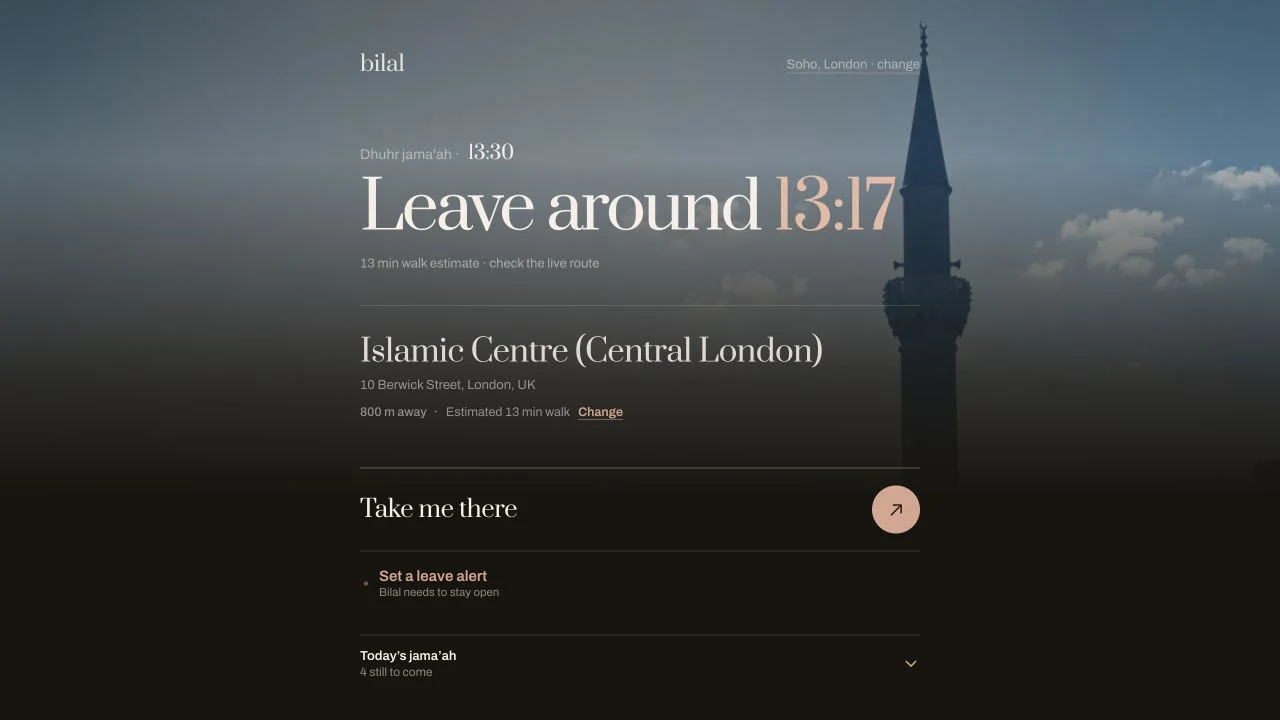
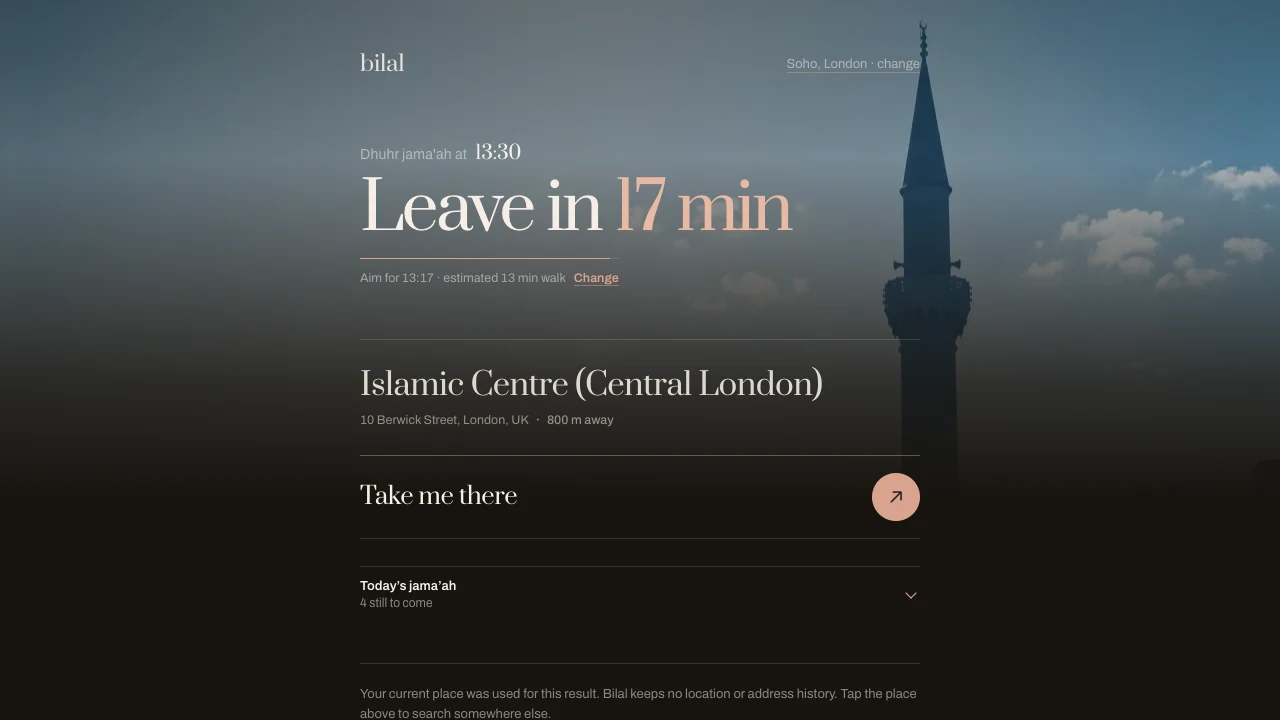
Make Near countdown feel alive

diff --git a/near.html b/near.html
@@ -94,11 +94,13 @@
   --out:cubic-bezier(.16,1,.3,1);
 }
 *{box-sizing:border-box;margin:0;padding:0}
+[hidden]{display:none!important}
 html,body{color:var(--cream);font-family:var(--text);
   font-variant-numeric:tabular-nums;-webkit-font-smoothing:antialiased;min-height:100%;
   -webkit-tap-highlight-color:transparent;text-rendering:optimizeLegibility}
 html{background:var(--chrome);scroll-behavior:smooth;min-height:-webkit-fill-available}
-body{position:relative;overflow-x:hidden;overscroll-behavior-y:none;
+body{position:relative;overflow-x:hidden;overscroll-behavior-y:auto;touch-action:pan-y;
+  -webkit-overflow-scrolling:touch;
   background:linear-gradient(to bottom,var(--chrome) 0,var(--chrome) 66svh,
     var(--deep) 66svh,var(--deep) 100%);
   min-height:100vh;min-height:-webkit-fill-available}
@@ -230,10 +232,11 @@ body.is-loading #app{opacity:0;visibility:hidden}
 .destination{padding-top:clamp(22px,4vh,34px);margin-top:clamp(23px,4.5vh,38px);border-top:1px solid var(--hair)}
 .mname{font-family:var(--display);font-size:clamp(23px,6.7vw,31px);line-height:1.08;
   letter-spacing:-.02em;text-wrap:balance;font-kerning:normal;max-width:22ch;color:rgba(246,239,231,.88)}
-.maddr{font-size:13px;color:var(--veil);margin-top:7px;line-height:1.45}
-.destination-meta{display:flex;align-items:baseline;flex-wrap:wrap;gap:0 7px;margin-top:6px}
-.mdist{font-size:12.5px;color:var(--veil);font-weight:500;
-  display:flex;align-items:baseline;flex-wrap:wrap;gap:7px}
+.destination-meta{display:flex;align-items:baseline;flex-wrap:wrap;gap:0 7px;margin-top:8px;
+  color:var(--veil);font-size:12.5px;line-height:1.45}
+.maddr{color:inherit}
+.mdist{color:inherit;font-weight:500}
+.mdist:before{content:'\00b7';margin-right:7px;color:var(--clay)}
 
 .jamaah-line{display:flex;align-items:baseline;gap:8px;color:var(--veil)}
 .plabel{font-size:14px;letter-spacing:.01em}
@@ -242,13 +245,18 @@ body.is-loading #app{opacity:0;visibility:hidden}
 .leave{margin-top:13px;color:var(--cream)}
 .leave span{display:block;font-family:var(--display);font-size:clamp(48px,13.8vw,66px);
   line-height:1.02;letter-spacing:-.045em;text-wrap:balance}
-.leave b{color:var(--clay-lift);font-weight:400}
+.leave b{color:var(--clay-lift);font-weight:400;white-space:nowrap}
+.leave .countdown-minutes{display:inline;font:inherit;letter-spacing:inherit}
 .leave small{display:block;margin-top:11px;color:var(--veil);font-family:var(--text);
   font-size:13px;line-height:1.45;letter-spacing:0}
 .leave.none span,.leave.late span{font-size:clamp(31px,9vw,43px);line-height:1.12}
-.journey-meta{display:flex;align-items:baseline;gap:8px;
+.second-sweep{width:min(68%,260px);height:1px;margin-top:15px;overflow:hidden;
+  background:rgba(246,239,231,.13);opacity:0;transition:opacity var(--swift) ease}
+.second-sweep.on{opacity:1}
+.second-sweep span{display:block;width:100%;height:100%;background:var(--clay);
+  transform:scaleX(1);transform-origin:left center;transition:transform 1s linear}
+.journey-meta{display:flex;align-items:baseline;flex-wrap:wrap;gap:0 8px;margin-top:7px;
   color:var(--veil);font-size:12.5px;line-height:1.45}
-.journey-meta:before{content:'·';color:var(--clay)}
 .text-button{appearance:none;border:0;background:none;color:var(--clay);font:inherit;
   display:inline-flex;align-items:center;min-height:44px;margin:-10px 0;font-weight:600;padding:10px 0;
   cursor:pointer;text-decoration:underline;
@@ -534,7 +542,6 @@ body.guide-open{overflow:hidden}
   .brandrow{margin-bottom:clamp(21px,4.4svh,32px)}
   .mname{max-width:92%;font-size:clamp(23px,6.3vw,27px);line-height:1.1;
     letter-spacing:-.025em;text-wrap:pretty}
-  .maddr{max-width:88%;font-size:13px;margin-top:7px}
   .ptime{font-size:19px}
   .leave{margin-top:13px}
   .leave span{font-size:clamp(48px,14.2vw,62px)}
@@ -593,6 +600,7 @@ body.guide-open{overflow:hidden}
 
 @media(prefers-reduced-motion:reduce){
   html{scroll-behavior:auto}
+  .second-sweep{display:none}
   *,*:before,*:after{animation-duration:.01ms!important;animation-iteration-count:1!important;
     transition-duration:.01ms!important;scroll-behavior:auto!important}
 }
@@ -650,15 +658,9 @@ body.guide-open{overflow:hidden}
       <span class="ptime" id="ptime">--:--</span>
     </div>
     <div class="leave" id="leave" role="status" aria-live="polite"></div>
+    <div class="second-sweep" id="secondSweep" aria-hidden="true"><span></span></div>
     <div class="pcount sr-only" id="pcount"></div>
-    <div class="destination">
-      <div class="mname" id="mname"></div>
-      <div class="maddr" id="maddr"></div>
-      <div class="destination-meta">
-        <div class="mdist"><span id="mdist"></span></div>
-        <div class="journey-meta" id="journeyMeta"><span id="journeySource"></span><button class="text-button" id="journeyEdit" type="button" aria-expanded="false" aria-controls="journeyForm">Change</button></div>
-      </div>
-    </div>
+    <div class="journey-meta" id="journeyMeta"><span id="journeySource"></span><button class="text-button" id="journeyEdit" type="button" aria-expanded="false" aria-controls="journeyForm">Change</button></div>
     <form class="journey-form" id="journeyForm" aria-hidden="true" inert>
       <div class="journey-inner">
         <label for="journeyMinutes">How many minutes from here?</label>
@@ -669,12 +671,19 @@ body.guide-open{overflow:hidden}
         <div class="journey-hint">Walk, drive, transit, cycle or a lift. Bilal only needs the minutes.</div>
       </div>
     </form>
+    <div class="destination">
+      <div class="mname" id="mname"></div>
+      <div class="destination-meta">
+        <span class="maddr" id="maddr"></span>
+        <span class="mdist" id="mdist"></span>
+      </div>
+    </div>
     <div class="actions">
       <a class="route route-primary" id="route" target="_blank" rel="noopener external">
         <span class="route-copy"><strong class="route-label">Take me there</strong></span>
         <span class="route-arrow" aria-hidden="true">↗</span>
       </a>
-      <button class="btn ghost" id="arm" aria-pressed="false"><span class="armdot" aria-hidden="true"></span><span class="arm-copy"><span id="armText">Alert me when to leave</span><small>Bilal needs to stay open</small></span></button>
+      <button class="btn ghost" id="arm" aria-pressed="false" hidden><span class="armdot" aria-hidden="true"></span><span class="arm-copy"><span id="armText">Alert me when to leave</span><small>Bilal needs to stay open</small></span></button>
     </div>
     <section class="day" id="daySection">
       <button class="day-toggle" id="dayToggle" type="button" aria-expanded="false" aria-controls="dayDrawer">
@@ -786,6 +795,8 @@ body.guide-open{overflow:hidden}
   var MOTION = {swift:160, settle:420, grand:760, out:'cubic-bezier(.16,1,.3,1)'};
   var SPLASH = {minimum:900, maximum:1450};
   var PULL = {threshold:72, maximum:108, resistance:.44, reloadDelay:240};
+  var NATIVE_IOS=/iP(?:hone|ad|od)/.test(navigator.platform||'') ||
+    ((navigator.platform||'')==='MacIntel' && navigator.maxTouchPoints>1);
 
   /* Time override for previewing, the same ?at=HH:MM the display takes. Every
      clock read below goes through nowMs() so the whole page moves together:
@@ -1086,6 +1097,17 @@ body.guide-open{overflow:hidden}
     return h+'h '+pad(m%60)+'m';
   }
 
+  /* Seconds carry urgency, but stay optically subordinate to the useful unit:
+     the minutes remaining. VoiceOver receives a calm minute-level update. */
+  function leaveCountdown(ms){
+    var total=Math.max(0,Math.floor(ms/1000));
+    return {
+      minutes:Math.max(1,Math.ceil(total/60)),
+      seconds:total%60,
+      sweep:total>0 ? (((total-1)%60)+1)/60 : 0
+    };
+  }
+
   function dayName(date){
     var today=iso(nowDate());
     var tomorrow=iso(new Date(nowMs()+86400000));
@@ -1162,7 +1184,20 @@ body.guide-open{overflow:hidden}
   function setLeave(className,html){
     var el=$('leave');
     el.className=className;
+    $('secondSweep').className='second-sweep';
     if(el.innerHTML!==html) el.innerHTML=html;
+  }
+
+  function setCountdown(ms){
+    var el=$('leave'), remaining=leaveCountdown(ms);
+    el.className='leave';
+    if(!el.querySelector('.countdown-minutes')){
+      el.innerHTML='<span aria-hidden="true">Leave in <b><strong class="countdown-minutes"></strong> min</b></span><span class="sr-only countdown-spoken"></span>';
+    }
+    el.querySelector('.countdown-minutes').textContent=remaining.minutes;
+    $('secondSweep').className='second-sweep on';
+    $('secondSweep').firstElementChild.style.transform='scaleX('+remaining.sweep+')';
+    movingText(el.querySelector('.countdown-spoken'),'Leave in '+Math.max(1,Math.ceil(ms/60000))+' minutes');
   }
 
   function paint(){
@@ -1179,7 +1214,7 @@ body.guide-open{overflow:hidden}
     sky(CORE.currentAtmosphere(ROWS,nowDate()));
     $('othersHint').textContent='Nearby choices and search';
     $('plabel').textContent = LABEL[nx.prayer]+' jama\'ah'+
-      (iso(nx.at)!==iso(nowDate()) ? ' tomorrow' : '')+' ·';
+      (iso(nx.at)!==iso(nowDate()) ? ' tomorrow' : '')+' at';
     $('ptime').textContent  = hhmm(nx.at);
     movingText($('pcount'), 'Jama\'ah in '+human(nx.at-nowMs()));
 
@@ -1191,8 +1226,9 @@ body.guide-open{overflow:hidden}
         if(iso(leaveAt)!==iso(nowDate())){
           setLeave('leave','<span>'+(journey.source==='estimate'?'Aim to leave':'Leave')+' tomorrow at <b>'+hhmm(leaveAt)+'</b></span>');
         }else{
-          setLeave('leave','<span>'+(journey.source==='estimate'?'Leave around <b>'+hhmm(leaveAt):'Leave in <b>'+human(left))+'</b></span><small>'+
-            (journey.source==='estimate'?journey.minutes+' min walk estimate · check the live route':'At '+hhmm(leaveAt))+'</small>');
+          setCountdown(left);
+          $('journeySource').textContent=(journey.source==='estimate'?'Aim for ':'Leave at ')+hhmm(leaveAt)+' · '+
+            (journey.source==='estimate'?'estimated '+journey.minutes+' min walk':journey.minutes+' min journey');
         }
       }else if(nowMs() < nx.at.getTime()){
         setLeave('leave late','<span>'+(journey.source==='estimate'?'Likely too tight':'This one is too tight')+'</span><small>'+human(nx.at-nowMs())+
@@ -1211,7 +1247,7 @@ body.guide-open{overflow:hidden}
     }else{
       /* No journey means no leave-time and no call. Maps can provide the live
          route, but only the person can bring that duration back to Bilal. */
-      setLeave('leave none','<span>When should you leave?</span><small>Check the live route, then add your journey time.</small>');
+      setLeave('leave none','<span>When should you leave?</span><small>Open Maps, then add your journey time.</small>');
     }
   }
 
@@ -1325,7 +1361,9 @@ body.guide-open{overflow:hidden}
     },MOTION.settle);
   }
   document.addEventListener('touchstart',function(e){
-    if(!e.touches || e.touches.length!==1 || !pullTop() ||
+    /* iOS already supplies the physical rubber-band. Fighting it with a
+       translated page is what makes an installed web app feel non-native. */
+    if(NATIVE_IOS || !e.touches || e.touches.length!==1 || !pullTop() ||
        $('splash').className.indexOf('out')===-1 ||
        $('installSheet').className.indexOf('on')!==-1 ||
        (e.target.closest && e.target.closest('button,input,a'))){ return; }
@@ -1401,6 +1439,7 @@ body.guide-open{overflow:hidden}
       $('journeyEdit').textContent='Set time';
       $('journeyMinutes').value='';
     }
+    arm.hidden=!(journey && journey.source==='set');
     if(!ARMED){
       arm.disabled=false;
       arm.className='btn ghost';

diff --git a/near-sw.js b/near-sw.js
@@ -4,7 +4,7 @@
  * the site root. That gives it a broad technical scope, so the fetch handler
  * is intentionally narrow: every route that is not part of Near falls straight
  * through to the network and remains owned by the television experience. */
-const VERSION = 'bilal-near-v13';
+const VERSION = 'bilal-near-v14';
 const SHELL = VERSION + '-shell';
 const DATA = VERSION + '-data';
 const TIMES_HOST = 'bilal-times.ahmed-sakib.workers.dev';
